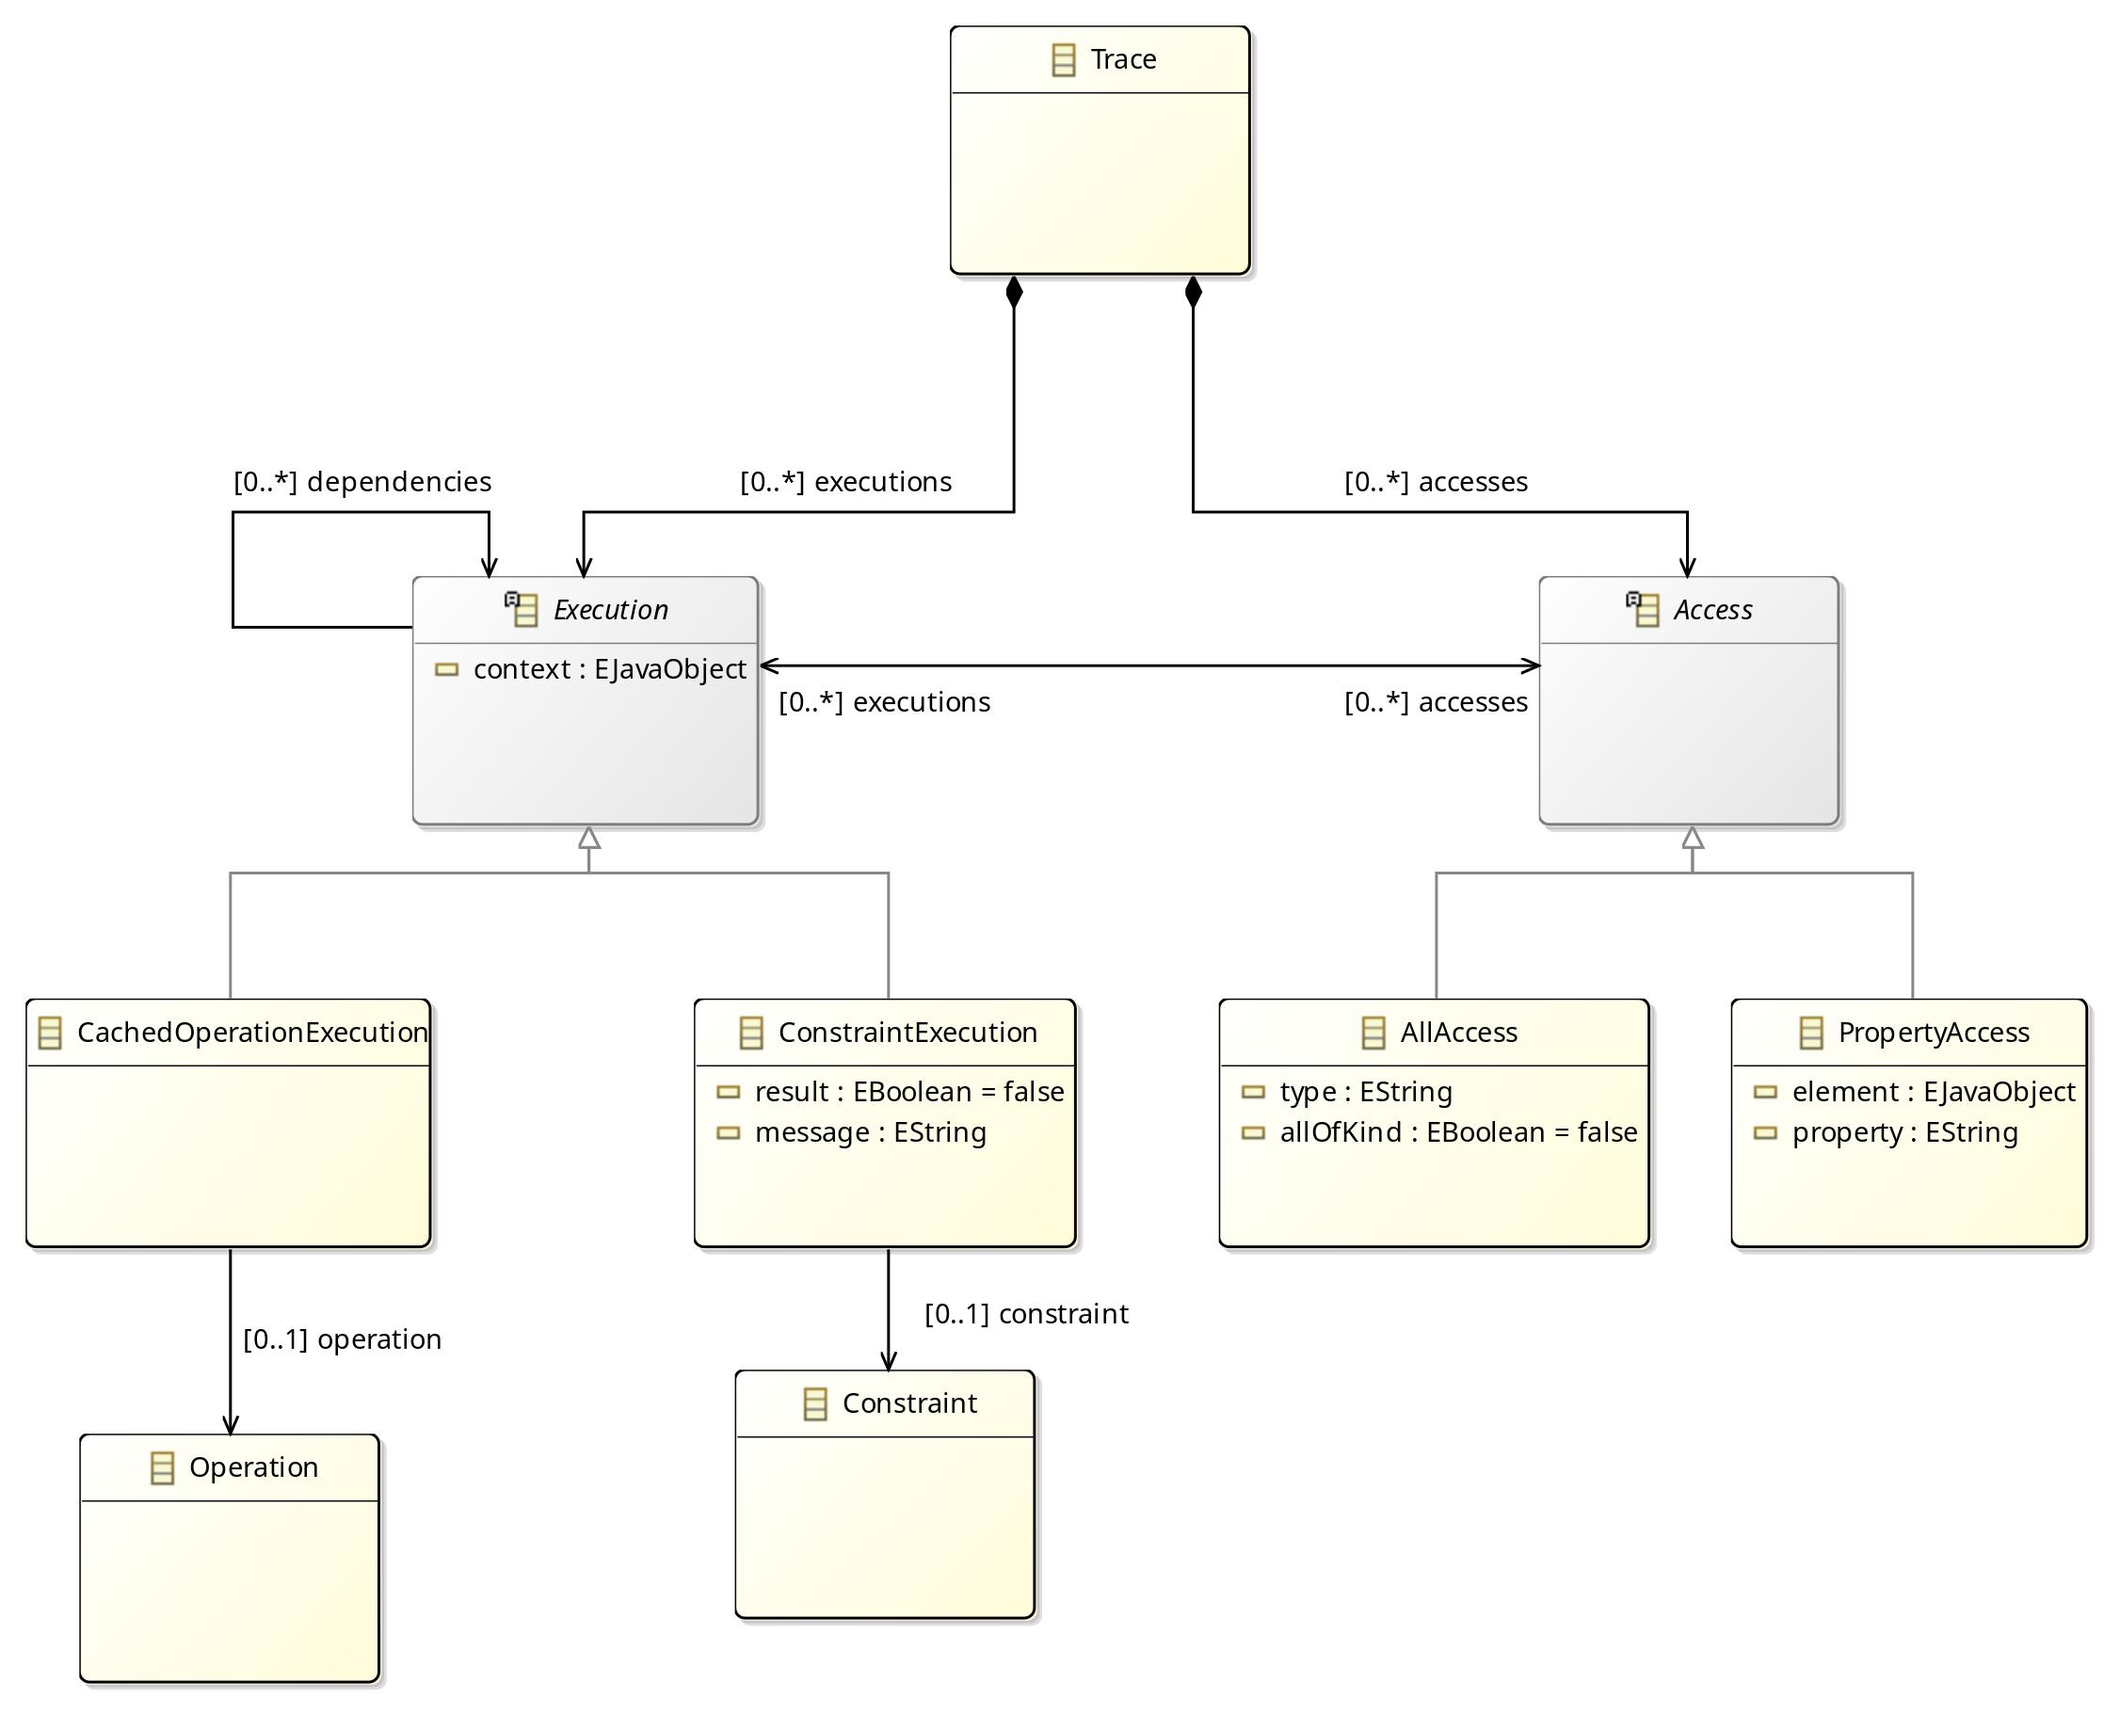
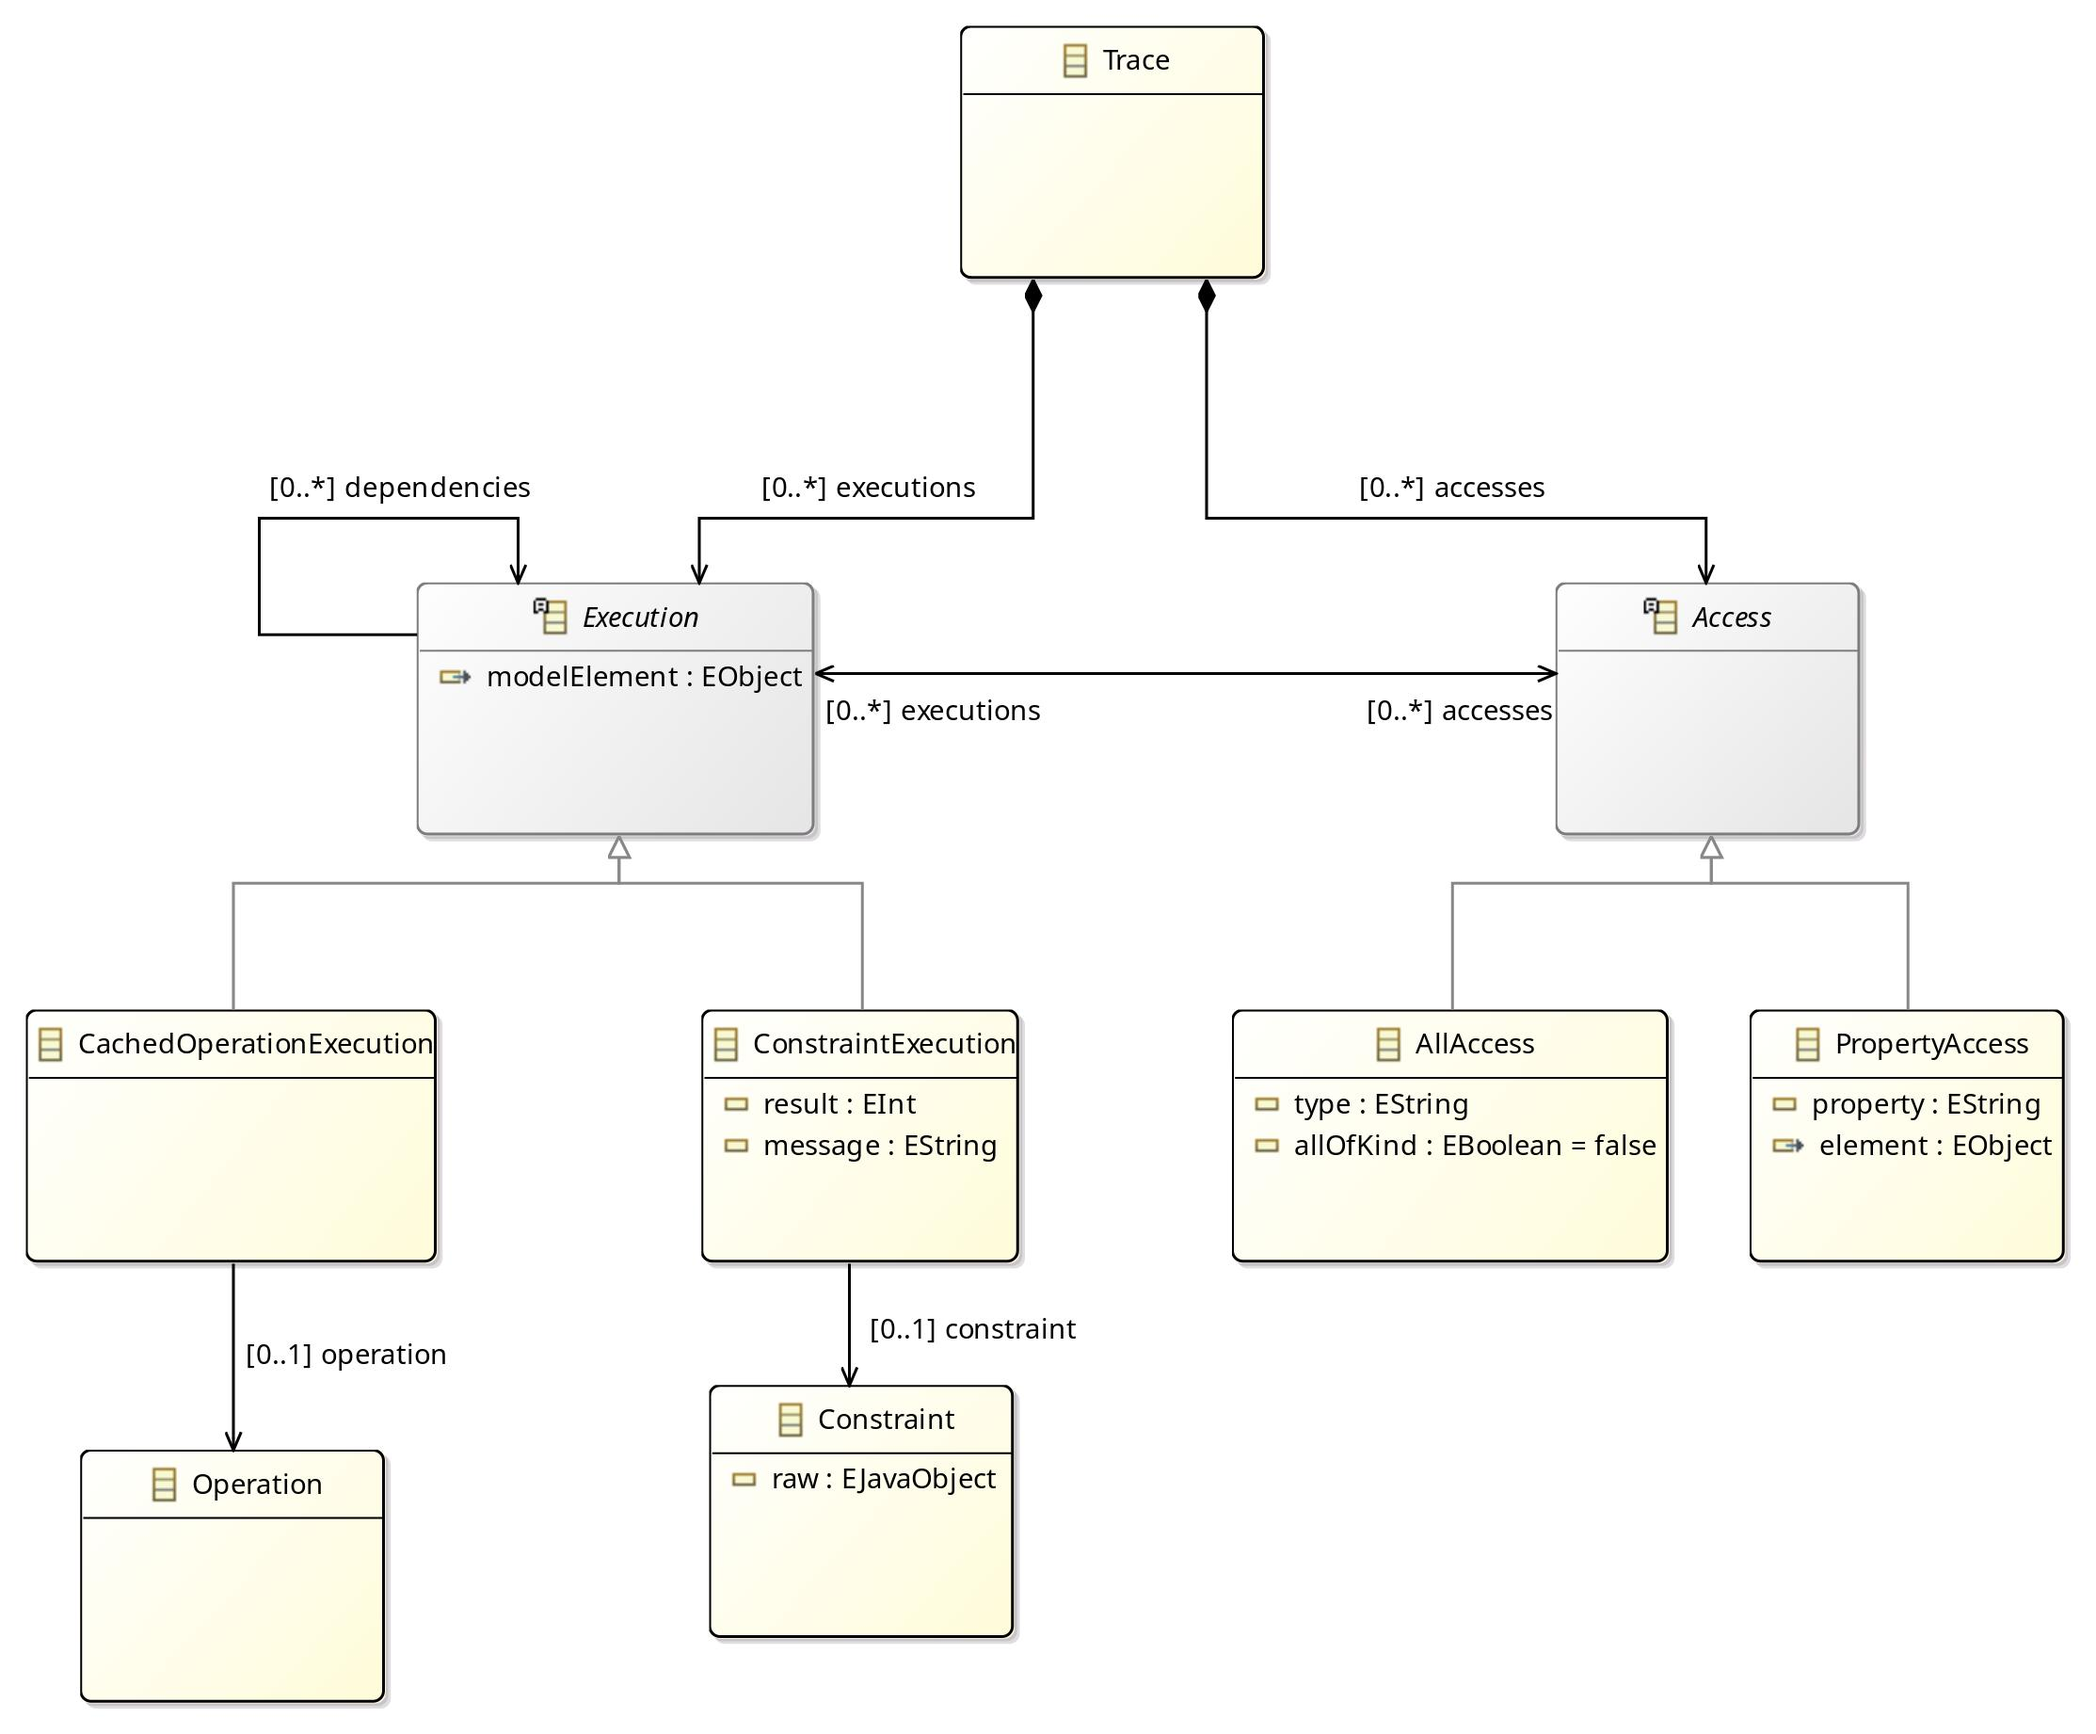
The element in PropertyAccess should also be an EObject (its the model)

diff --git a/bundles/org.eclipse.epsilon.evl.emf.validation.incremental.trace/src/org/eclipse/epsilon/evl/emf/validation/incremental/trace/impl/PropertyAccessImpl.java b/bundles/org.eclipse.epsilon.evl.emf.validation.incremental.trace/src/org/eclipse/epsilon/evl/emf/validation/incremental/trace/impl/PropertyAccessImpl.java
@@ -6,6 +6,8 @@ import org.eclipse.emf.common.notify.Notification;
 
 import org.eclipse.emf.ecore.EClass;
 
+import org.eclipse.emf.ecore.EObject;
+import org.eclipse.emf.ecore.InternalEObject;
 import org.eclipse.emf.ecore.impl.ENotificationImpl;
 
 import org.eclipse.epsilon.evl.emf.validation.incremental.trace.PropertyAccess;
@@ -27,24 +29,14 @@ import org.eclipse.epsilon.evl.emf.validation.incremental.trace.TracePackage;
  */
 public class PropertyAccessImpl extends AccessImpl implements PropertyAccess {
 	/**
-	 * The default value of the '{@link #getElement() <em>Element</em>}' attribute.
+	 * The cached value of the '{@link #getElement() <em>Element</em>}' reference.
 	 * <!-- begin-user-doc -->
 	 * <!-- end-user-doc -->
 	 * @see #getElement()
 	 * @generated
 	 * @ordered
 	 */
-	protected static final Object ELEMENT_EDEFAULT = null;
-
-	/**
-	 * The cached value of the '{@link #getElement() <em>Element</em>}' attribute.
-	 * <!-- begin-user-doc -->
-	 * <!-- end-user-doc -->
-	 * @see #getElement()
-	 * @generated
-	 * @ordered
-	 */
-	protected Object element = ELEMENT_EDEFAULT;
+	protected EObject element;
 
 	/**
 	 * The default value of the '{@link #getProperty() <em>Property</em>}' attribute.
@@ -91,7 +83,24 @@ public class PropertyAccessImpl extends AccessImpl implements PropertyAccess {
 	 * @generated
 	 */
 	@Override
-	public Object getElement() {
+	public EObject getElement() {
+		if (element != null && element.eIsProxy()) {
+			InternalEObject oldElement = (InternalEObject)element;
+			element = eResolveProxy(oldElement);
+			if (element != oldElement) {
+				if (eNotificationRequired())
+					eNotify(new ENotificationImpl(this, Notification.RESOLVE, TracePackage.PROPERTY_ACCESS__ELEMENT, oldElement, element));
+			}
+		}
+		return element;
+	}
+
+	/**
+	 * <!-- begin-user-doc -->
+	 * <!-- end-user-doc -->
+	 * @generated
+	 */
+	public EObject basicGetElement() {
 		return element;
 	}
 
@@ -101,8 +110,8 @@ public class PropertyAccessImpl extends AccessImpl implements PropertyAccess {
 	 * @generated
 	 */
 	@Override
-	public void setElement(Object newElement) {
-		Object oldElement = element;
+	public void setElement(EObject newElement) {
+		EObject oldElement = element;
 		element = newElement;
 		if (eNotificationRequired())
 			eNotify(new ENotificationImpl(this, Notification.SET, TracePackage.PROPERTY_ACCESS__ELEMENT, oldElement, element));
@@ -140,7 +149,8 @@ public class PropertyAccessImpl extends AccessImpl implements PropertyAccess {
 	public Object eGet(int featureID, boolean resolve, boolean coreType) {
 		switch (featureID) {
 			case TracePackage.PROPERTY_ACCESS__ELEMENT:
-				return getElement();
+				if (resolve) return getElement();
+				return basicGetElement();
 			case TracePackage.PROPERTY_ACCESS__PROPERTY:
 				return getProperty();
 		}
@@ -156,7 +166,7 @@ public class PropertyAccessImpl extends AccessImpl implements PropertyAccess {
 	public void eSet(int featureID, Object newValue) {
 		switch (featureID) {
 			case TracePackage.PROPERTY_ACCESS__ELEMENT:
-				setElement(newValue);
+				setElement((EObject)newValue);
 				return;
 			case TracePackage.PROPERTY_ACCESS__PROPERTY:
 				setProperty((String)newValue);
@@ -174,7 +184,7 @@ public class PropertyAccessImpl extends AccessImpl implements PropertyAccess {
 	public void eUnset(int featureID) {
 		switch (featureID) {
 			case TracePackage.PROPERTY_ACCESS__ELEMENT:
-				setElement(ELEMENT_EDEFAULT);
+				setElement((EObject)null);
 				return;
 			case TracePackage.PROPERTY_ACCESS__PROPERTY:
 				setProperty(PROPERTY_EDEFAULT);
@@ -192,7 +202,7 @@ public class PropertyAccessImpl extends AccessImpl implements PropertyAccess {
 	public boolean eIsSet(int featureID) {
 		switch (featureID) {
 			case TracePackage.PROPERTY_ACCESS__ELEMENT:
-				return ELEMENT_EDEFAULT == null ? element != null : !ELEMENT_EDEFAULT.equals(element);
+				return element != null;
 			case TracePackage.PROPERTY_ACCESS__PROPERTY:
 				return PROPERTY_EDEFAULT == null ? property != null : !PROPERTY_EDEFAULT.equals(property);
 		}
@@ -209,9 +219,7 @@ public class PropertyAccessImpl extends AccessImpl implements PropertyAccess {
 		if (eIsProxy()) return super.toString();
 
 		StringBuilder result = new StringBuilder(super.toString());
-		result.append(" (element: ");
-		result.append(element);
-		result.append(", property: ");
+		result.append(" (property: ");
 		result.append(property);
 		result.append(')');
 		return result.toString();

diff --git a/bundles/org.eclipse.epsilon.evl.emf.validation.incremental.trace/src/org/eclipse/epsilon/evl/emf/validation/incremental/trace/impl/TracePackageImpl.java b/bundles/org.eclipse.epsilon.evl.emf.validation.incremental.trace/src/org/eclipse/epsilon/evl/emf/validation/incremental/trace/impl/TracePackageImpl.java
@@ -347,8 +347,8 @@ public class TracePackageImpl extends EPackageImpl implements TracePackage {
 	 * @generated
 	 */
 	@Override
-	public EAttribute getPropertyAccess_Element() {
-		return (EAttribute)propertyAccessEClass.getEStructuralFeatures().get(0);
+	public EReference getPropertyAccess_Element() {
+		return (EReference)propertyAccessEClass.getEStructuralFeatures().get(0);
 	}
 
 	/**
@@ -446,7 +446,7 @@ public class TracePackageImpl extends EPackageImpl implements TracePackage {
 		createEReference(accessEClass, ACCESS__EXECUTIONS);
 
 		propertyAccessEClass = createEClass(PROPERTY_ACCESS);
-		createEAttribute(propertyAccessEClass, PROPERTY_ACCESS__ELEMENT);
+		createEReference(propertyAccessEClass, PROPERTY_ACCESS__ELEMENT);
 		createEAttribute(propertyAccessEClass, PROPERTY_ACCESS__PROPERTY);
 
 		allAccessEClass = createEClass(ALL_ACCESS);
@@ -514,7 +514,7 @@ public class TracePackageImpl extends EPackageImpl implements TracePackage {
 		initEReference(getAccess_Executions(), this.getExecution(), this.getExecution_Accesses(), "executions", null, 0, -1, Access.class, !IS_TRANSIENT, !IS_VOLATILE, IS_CHANGEABLE, !IS_COMPOSITE, IS_RESOLVE_PROXIES, !IS_UNSETTABLE, IS_UNIQUE, !IS_DERIVED, IS_ORDERED);
 
 		initEClass(propertyAccessEClass, PropertyAccess.class, "PropertyAccess", !IS_ABSTRACT, !IS_INTERFACE, IS_GENERATED_INSTANCE_CLASS);
-		initEAttribute(getPropertyAccess_Element(), ecorePackage.getEJavaObject(), "element", null, 0, 1, PropertyAccess.class, !IS_TRANSIENT, !IS_VOLATILE, IS_CHANGEABLE, !IS_UNSETTABLE, !IS_ID, IS_UNIQUE, !IS_DERIVED, IS_ORDERED);
+		initEReference(getPropertyAccess_Element(), ecorePackage.getEObject(), null, "element", null, 0, 1, PropertyAccess.class, !IS_TRANSIENT, !IS_VOLATILE, IS_CHANGEABLE, !IS_COMPOSITE, IS_RESOLVE_PROXIES, !IS_UNSETTABLE, IS_UNIQUE, !IS_DERIVED, IS_ORDERED);
 		initEAttribute(getPropertyAccess_Property(), ecorePackage.getEString(), "property", null, 0, 1, PropertyAccess.class, !IS_TRANSIENT, !IS_VOLATILE, IS_CHANGEABLE, !IS_UNSETTABLE, !IS_ID, IS_UNIQUE, !IS_DERIVED, IS_ORDERED);
 
 		initEClass(allAccessEClass, AllAccess.class, "AllAccess", !IS_ABSTRACT, !IS_INTERFACE, IS_GENERATED_INSTANCE_CLASS);

diff --git a/bundles/org.eclipse.epsilon.evl.emf.validation.incremental.trace/src/org/eclipse/epsilon/evl/emf/validation/incremental/trace/TracePackage.java b/bundles/org.eclipse.epsilon.evl.emf.validation.incremental.trace/src/org/eclipse/epsilon/evl/emf/validation/incremental/trace/TracePackage.java
@@ -362,7 +362,7 @@ public interface TracePackage extends EPackage {
 	int PROPERTY_ACCESS__EXECUTIONS = ACCESS__EXECUTIONS;
 
 	/**
-	 * The feature id for the '<em><b>Element</b></em>' attribute.
+	 * The feature id for the '<em><b>Element</b></em>' reference.
 	 * <!-- begin-user-doc -->
 	 * <!-- end-user-doc -->
 	 * @generated
@@ -636,15 +636,15 @@ public interface TracePackage extends EPackage {
 	EClass getPropertyAccess();
 
 	/**
-	 * Returns the meta object for the attribute '{@link org.eclipse.epsilon.evl.emf.validation.incremental.trace.PropertyAccess#getElement <em>Element</em>}'.
+	 * Returns the meta object for the reference '{@link org.eclipse.epsilon.evl.emf.validation.incremental.trace.PropertyAccess#getElement <em>Element</em>}'.
 	 * <!-- begin-user-doc -->
 	 * <!-- end-user-doc -->
-	 * @return the meta object for the attribute '<em>Element</em>'.
+	 * @return the meta object for the reference '<em>Element</em>'.
 	 * @see org.eclipse.epsilon.evl.emf.validation.incremental.trace.PropertyAccess#getElement()
 	 * @see #getPropertyAccess()
 	 * @generated
 	 */
-	EAttribute getPropertyAccess_Element();
+	EReference getPropertyAccess_Element();
 
 	/**
 	 * Returns the meta object for the attribute '{@link org.eclipse.epsilon.evl.emf.validation.incremental.trace.PropertyAccess#getProperty <em>Property</em>}'.
@@ -881,12 +881,12 @@ public interface TracePackage extends EPackage {
 		EClass PROPERTY_ACCESS = eINSTANCE.getPropertyAccess();
 
 		/**
-		 * The meta object literal for the '<em><b>Element</b></em>' attribute feature.
+		 * The meta object literal for the '<em><b>Element</b></em>' reference feature.
 		 * <!-- begin-user-doc -->
 		 * <!-- end-user-doc -->
 		 * @generated
 		 */
-		EAttribute PROPERTY_ACCESS__ELEMENT = eINSTANCE.getPropertyAccess_Element();
+		EReference PROPERTY_ACCESS__ELEMENT = eINSTANCE.getPropertyAccess_Element();
 
 		/**
 		 * The meta object literal for the '<em><b>Property</b></em>' attribute feature.

diff --git a/bundles/org.eclipse.epsilon.evl.emf.validation.incremental.trace/src/org/eclipse/epsilon/evl/emf/validation/incremental/trace/PropertyAccess.java b/bundles/org.eclipse.epsilon.evl.emf.validation.incremental.trace/src/org/eclipse/epsilon/evl/emf/validation/incremental/trace/PropertyAccess.java
@@ -2,6 +2,8 @@
  */
 package org.eclipse.epsilon.evl.emf.validation.incremental.trace;
 
+import org.eclipse.emf.ecore.EObject;
+
 
 /**
  * <!-- begin-user-doc -->
@@ -22,26 +24,26 @@ package org.eclipse.epsilon.evl.emf.validation.incremental.trace;
  */
 public interface PropertyAccess extends Access {
 	/**
-	 * Returns the value of the '<em><b>Element</b></em>' attribute.
+	 * Returns the value of the '<em><b>Element</b></em>' reference.
 	 * <!-- begin-user-doc -->
 	 * <!-- end-user-doc -->
-	 * @return the value of the '<em>Element</em>' attribute.
-	 * @see #setElement(Object)
+	 * @return the value of the '<em>Element</em>' reference.
+	 * @see #setElement(EObject)
 	 * @see org.eclipse.epsilon.evl.emf.validation.incremental.trace.TracePackage#getPropertyAccess_Element()
 	 * @model
 	 * @generated
 	 */
-	Object getElement();
+	EObject getElement();
 
 	/**
-	 * Sets the value of the '{@link org.eclipse.epsilon.evl.emf.validation.incremental.trace.PropertyAccess#getElement <em>Element</em>}' attribute.
+	 * Sets the value of the '{@link org.eclipse.epsilon.evl.emf.validation.incremental.trace.PropertyAccess#getElement <em>Element</em>}' reference.
 	 * <!-- begin-user-doc -->
 	 * <!-- end-user-doc -->
-	 * @param value the new value of the '<em>Element</em>' attribute.
+	 * @param value the new value of the '<em>Element</em>' reference.
 	 * @see #getElement()
 	 * @generated
 	 */
-	void setElement(Object value);
+	void setElement(EObject value);
 
 	/**
 	 * Returns the value of the '<em><b>Property</b></em>' attribute.

diff --git a/bundles/org.eclipse.epsilon.evl.emf.validation.incremental/src/org/eclipse/epsilon/evl/emf/validation/incremental/IncrementalEvlModule.java b/bundles/org.eclipse.epsilon.evl.emf.validation.incremental/src/org/eclipse/epsilon/evl/emf/validation/incremental/IncrementalEvlModule.java
@@ -215,7 +215,7 @@ public class IncrementalEvlModule extends EvlModule {
 			// one currently in the property Access recorder
 			ConstraintExecution executionForPropertyAccess = ((ConstraintPropertyAccess) propertyAccess).getExecution();
 
-			traceModelPropertyAccess.setElement(propertyAccess.getModelElement());
+			traceModelPropertyAccess.setElement((EObject) propertyAccess.getModelElement());
 			traceModelPropertyAccess.setProperty(propertyAccess.getPropertyName());
 			traceModelPropertyAccess.getExecutions().add(executionForPropertyAccess);
 			evlTrace.addPropertyAccessToTraceModel(traceModelPropertyAccess);
